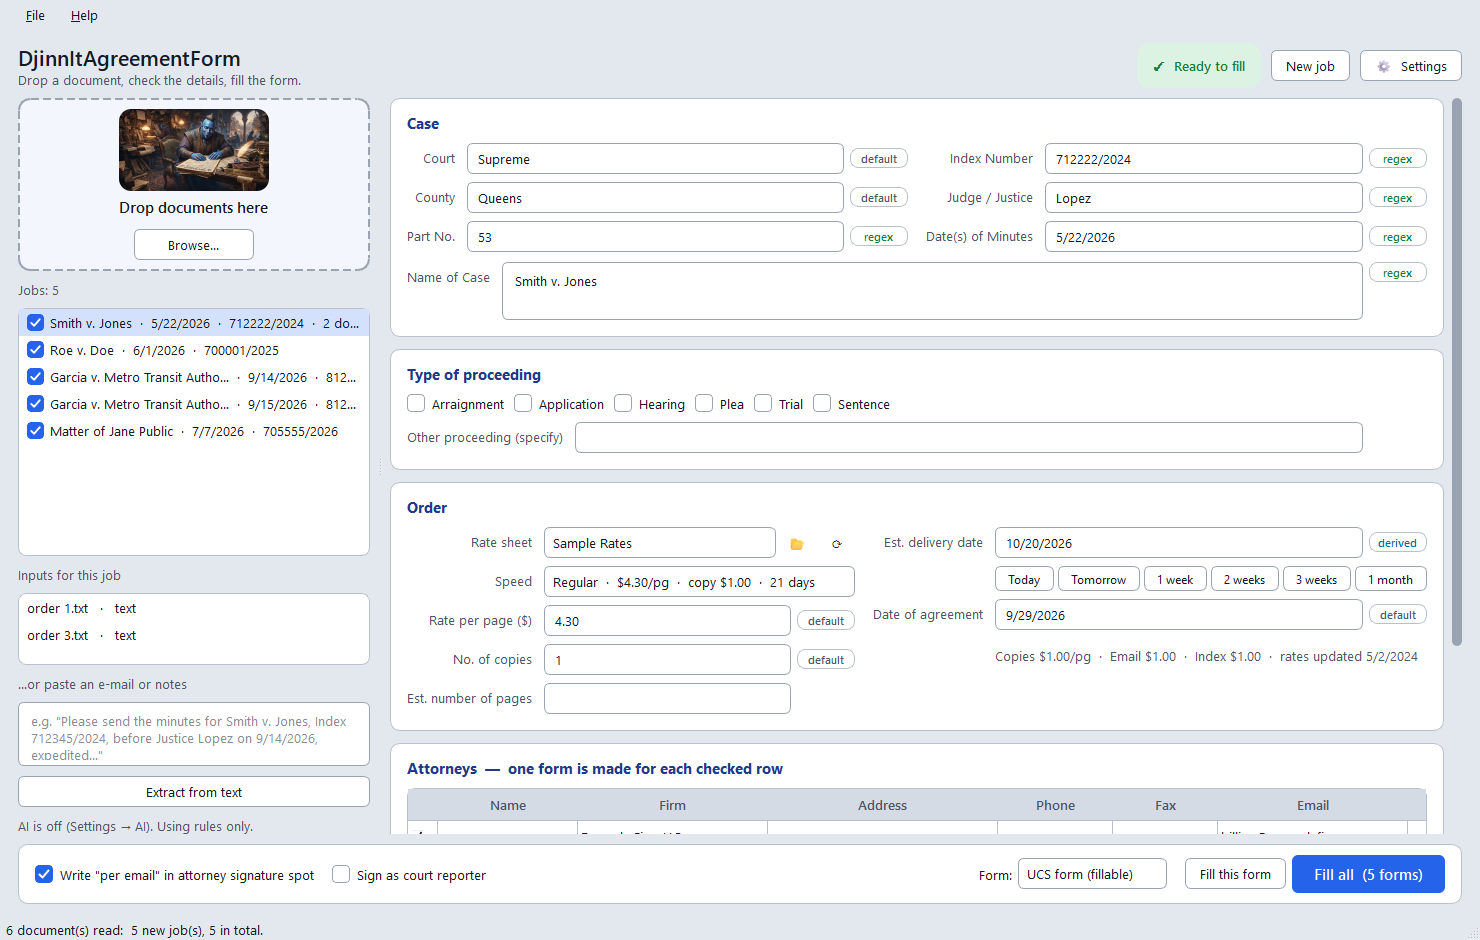
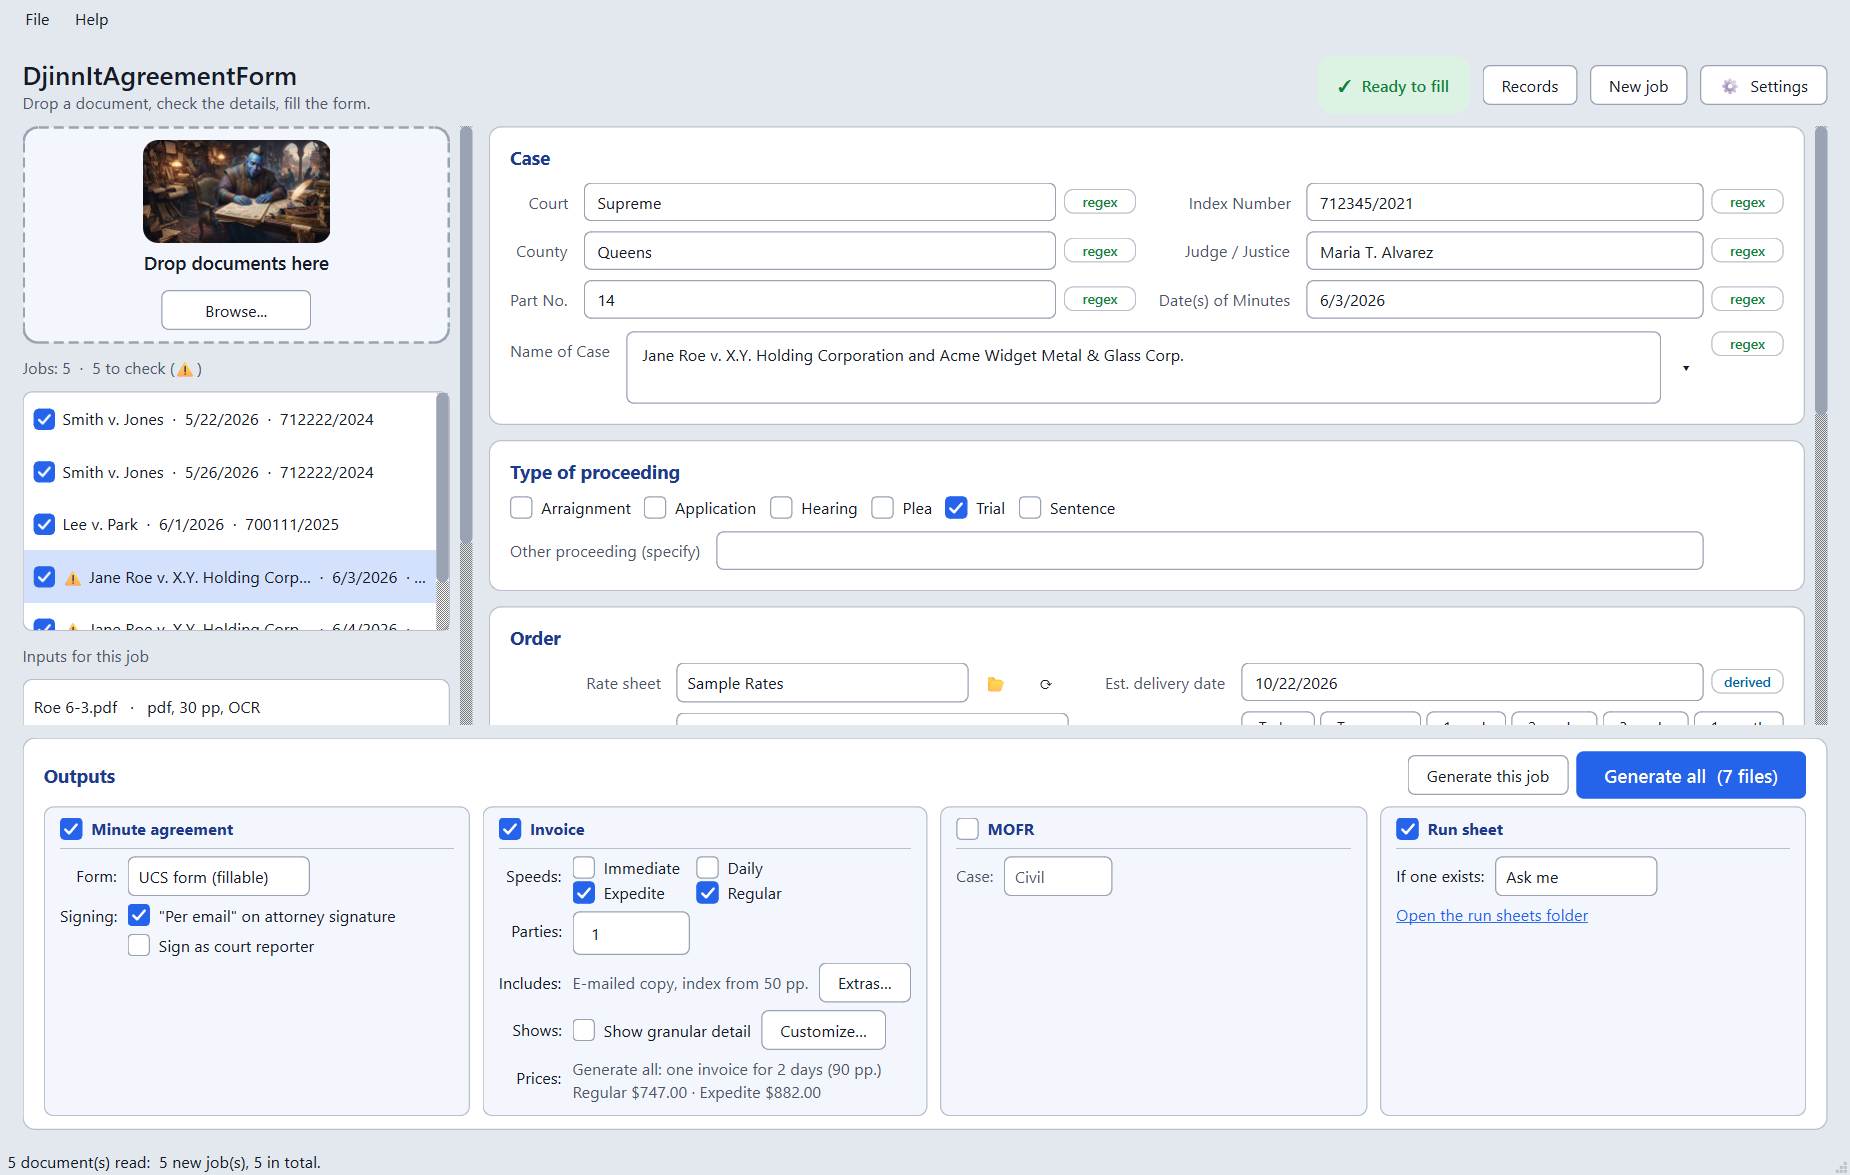
Website and README for 1.3.0: Outputs box, plainer and joint invoices, fillable PDFs; new screenshots

Changed region(s): [[0.0, 0.0, 0.9946, 0.9564], [0.0, 0.9872, 0.1865, 1.0], [0.9946, 0.9872, 1.0, 1.0]]

diff --git a/docs/index.html b/docs/index.html
@@ -69,7 +69,7 @@
       <li><b>Drop it in</b>A PDF (transcript, invoice), a photo, or paste the e-mail text or a screenshot with Ctrl+V.</li>
       <li><b>Check the details</b>Every field shows where it came from. Guesses are highlighted, and a list offers other candidates.</li>
       <li><b>Pick speed and attorney</b>Rates and the estimated delivery date follow your rate sheet. Buttons fill today, tomorrow, 1 to 3 weeks or 1 month.</li>
-      <li><b>Generate</b>Tick what to make (minute agreement, MOFR, invoice, run sheet). The PDFs are saved and opened, one per attorney you tick, and the run sheet gets the day's takes. Ctrl+Enter does it from the keyboard.</li>
+      <li><b>Generate</b>Tick what to make in the Outputs box: minute agreement, invoice, MOFR, run sheet, each with its own options. The PDFs are saved and opened, one per attorney you tick, and the run sheet gets the day's takes. Ctrl+Enter does it from the keyboard.</li>
     </ol>
   </div>
 </section>
@@ -78,9 +78,9 @@
   <div class="wrap two">
     <div>
       <h2>A hundred orders? Drop the whole folder.</h2>
-      <p>Batch mode reads any number of documents and sorts them into one job per case and date. A transcript and its invoice make one form, not two. Two days of the same case make two forms (or one, if you prefer). Tick the jobs you want and press <b>Generate all</b>.</p>
+      <p>Batch mode reads any number of documents and sorts them into one job per case and date. A transcript and its invoice make one form, not two. Two days of the same case make two forms (or one, if you prefer), but share <b>one invoice</b> with the grand total. Tick the jobs you want and press <b>Generate all</b>.</p>
     </div>
-    <img class="shot" src="batch.png" alt="Batch mode with five jobs listed on the left">
+    <img class="shot" src="batch.png" alt="Batch mode with five jobs listed on the left and the Outputs box below">
   </div>
 </section>
 
@@ -96,10 +96,10 @@
 
 <section>
   <div class="wrap two">
-    <img class="shot" src="invoice.png" alt="An invoice listing Regular, Expedite and Daily prices">
+    <img class="shot" src="invoice.png" alt="One invoice for two days of a case, listing the Regular and Expedite amounts">
     <div>
       <h2>Invoices from your transcripts</h2>
-      <p>Drop a transcript PDF and tick <b>Invoice</b>. The page count and your rate sheet price the original, each party's copy and e-mailed copy, and an index for long transcripts, split between the ordering parties. By default the invoice lists Regular, Expedited and Daily so the attorney can choose, with your turnaround times and how to pay you. Each invoice gets its own number. Sample shown uses made-up names.</p>
+      <p>Drop a transcript PDF and tick <b>Invoice</b>. The page count and your rate sheet price the original, each party's copy and e-mailed copy, and an index for long transcripts, split between the ordering parties. You tick the speeds to offer (Regular and Expedited to start with), and the invoice shows each one's turnaround and amount, with how to pay you. Want the page count, the pages of each day and the charges spelled out? Tick <b>Show granular detail</b>, and choose what it shows. <b>Extras…</b> drops the e-mailed copy or adds an index for one job. Several days of one case get one invoice. Sample shown uses made-up names.</p>
     </div>
   </div>
 </section>
@@ -130,9 +130,10 @@
     <div class="grid">
       <div class="card"><h3>Private</h3><p>Everything runs on your computer. Photos are read with Windows' built-in text recognition. Nothing is uploaded.</p></div>
       <div class="card"><h3>Asks when unsure</h3><p>Missing or conflicting items (index number, dates, judge) are raised before filling, never silently guessed.</p></div>
-      <div class="card"><h3>Remembers you</h3><p>Your name, address, phone, e-mail, default speed, copies and signature are set once in Settings.</p></div>
+      <div class="card"><h3>Remembers you</h3><p>Your name, address, phone, e-mail, default speed, copies and signature are set once in Settings, and what you tick in the Outputs box stays ticked.</p></div>
+      <div class="card"><h3>Fix it afterwards</h3><p>The PDFs stay fillable: every value the app typed in, invoice amounts included, can be corrected in a PDF viewer. When it's final, File &rarr; Lock finished PDFs saves a locked copy.</p></div>
       <div class="card"><h3>Your rate sheets</h3><p>Rates live in small spreadsheets (CSV) you can edit in Excel: private, city, whatever you charge.</p></div>
-      <div class="card"><h3>Optional local AI</h3><p>If you use Ollama, an AI helper can read messy photos and e-mails. It is off by default and stays on your machine.</p></div>
+      <div class="card"><h3>Optional local AI</h3><p>If you use Ollama, an AI helper can read messy photos and e-mails. It is only used when Ollama is installed, and it stays on your machine.</p></div>
       <div class="card"><h3>Open source</h3><p>Read the code, report a problem, or suggest a change on GitHub.</p></div>
     </div>
   </div>

diff --git a/README.md b/README.md
@@ -198,7 +198,7 @@ Never change the `AppId` in `installer/DjinnItAgreementForm.iss`; Windows uses i
 | Rule-based extraction: index no., part, judge, caption, dates, appearances, e-mail signatures… | `extract_regex.py` |
 | Optional local AI pass, validated against the source text | `extract_llm.py` |
 | Merge candidates, apply defaults and rate sheet, derive dates and pages | `merge.py`, `rates.py` |
-| Sort documents into jobs by case and date, fill a whole batch | `batch.py` |
+| Sort documents into jobs by case and date, fill a whole batch, one invoice for the days of a case | `batch.py` |
 | Fill the chosen form, one PDF per attorney; fields for typed values, the Lock fields button, locked copies | `fill.py`, `forms/` |
 | Fill the MOFR | `mofr.py`, `forms/mofr_map.py` |
 | Price and draw invoices (values as fields) | `invoice_calc.py`, `invoice.py` |
